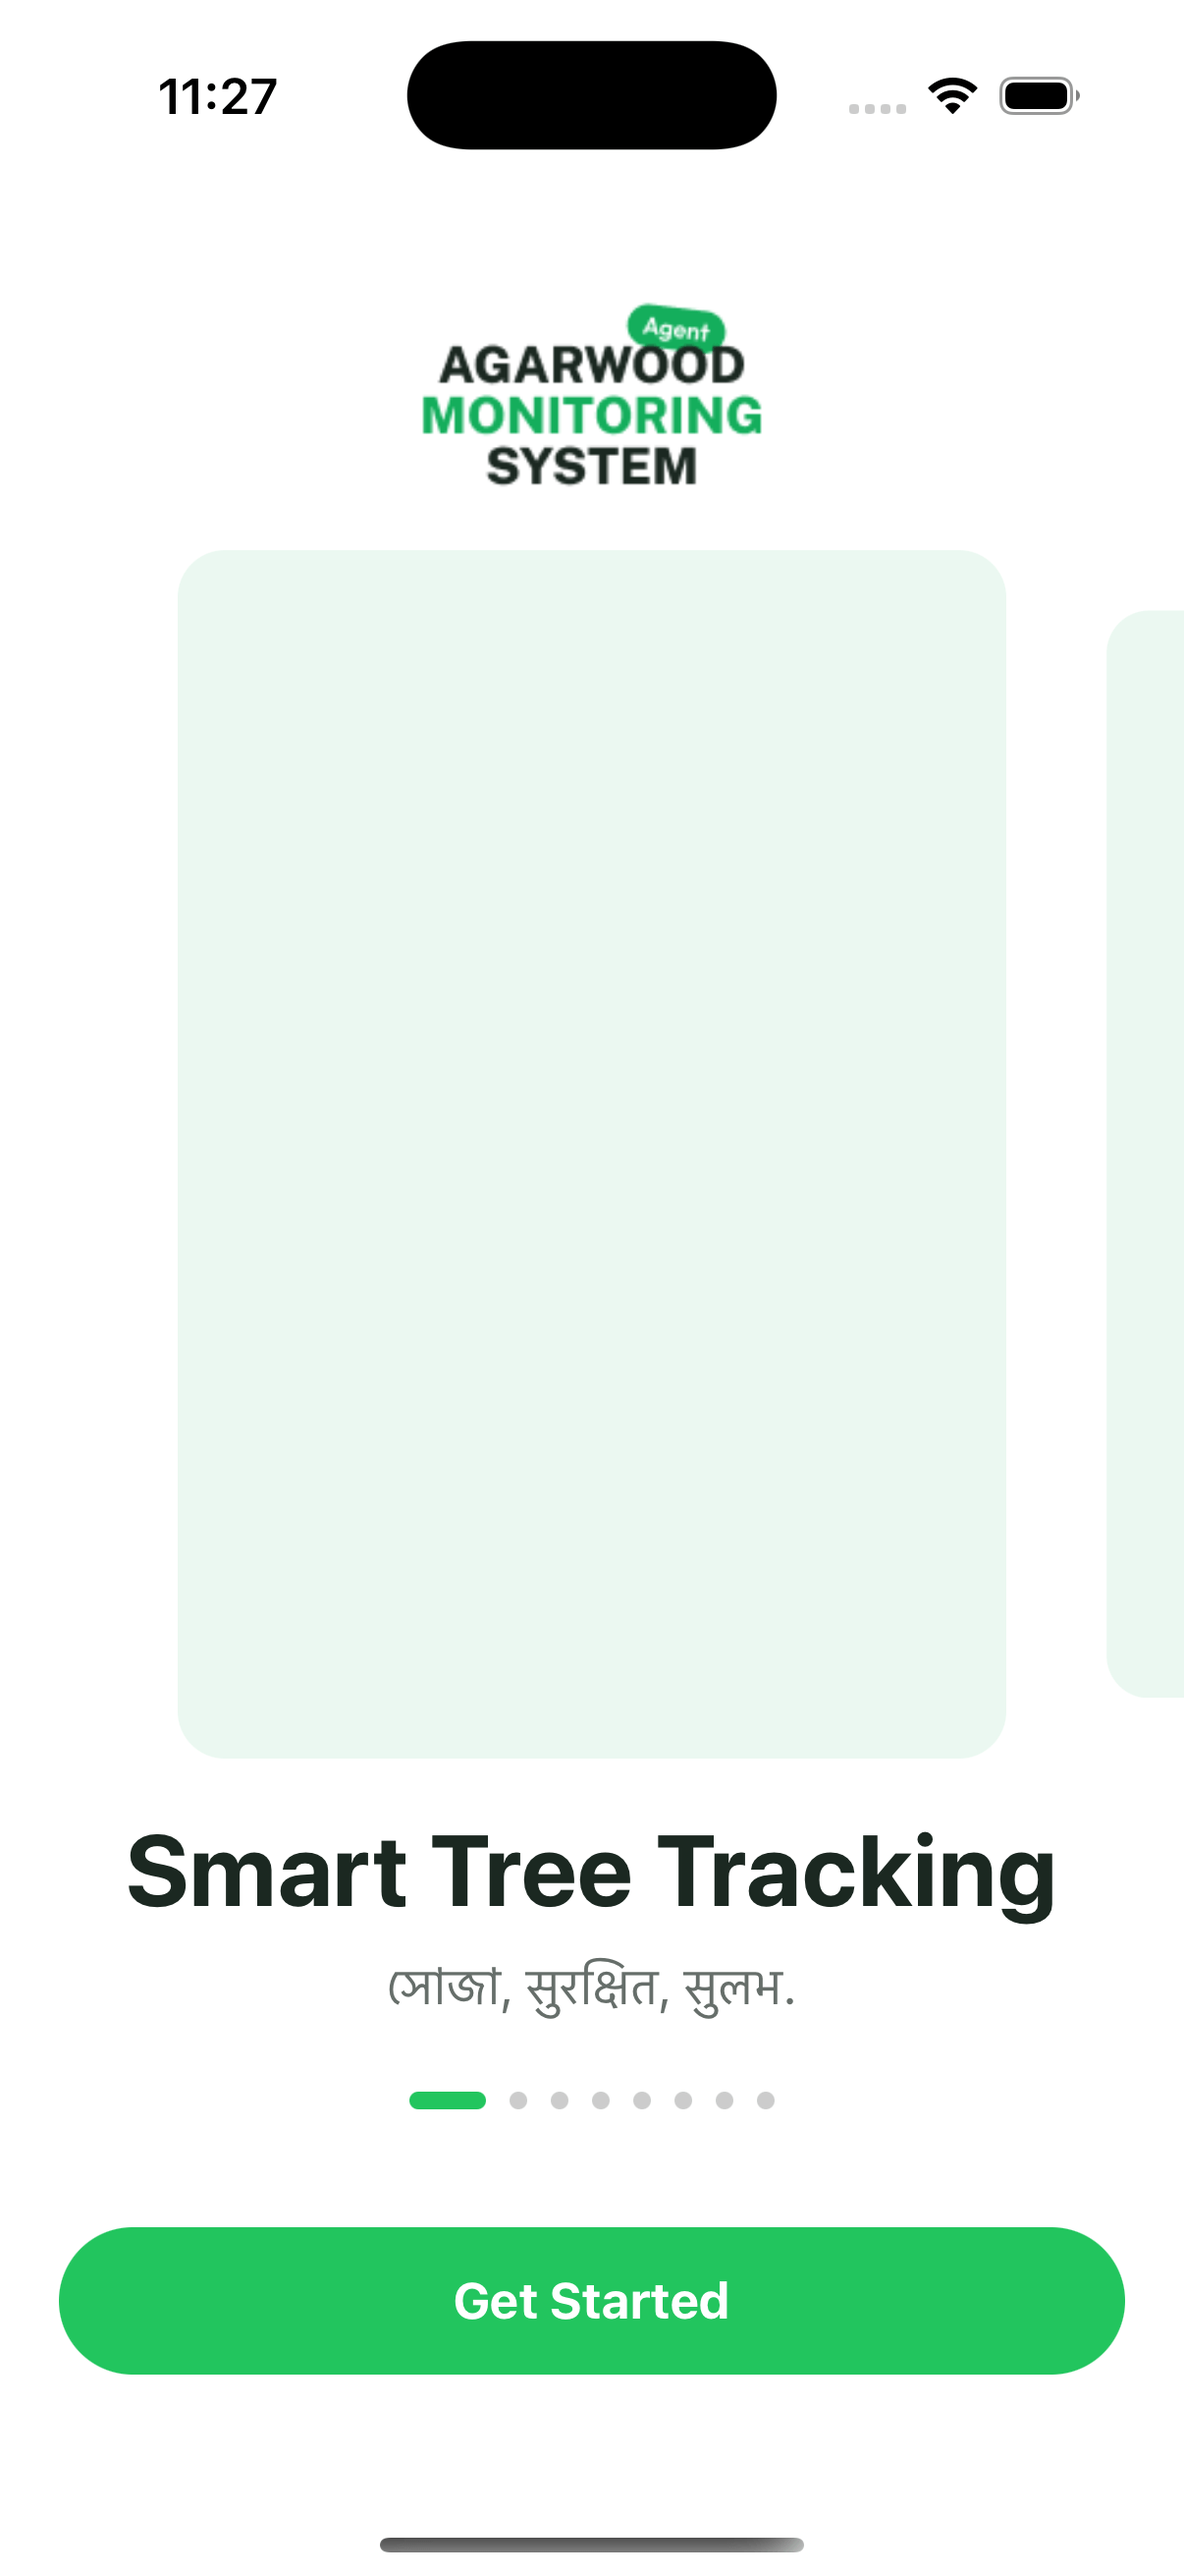
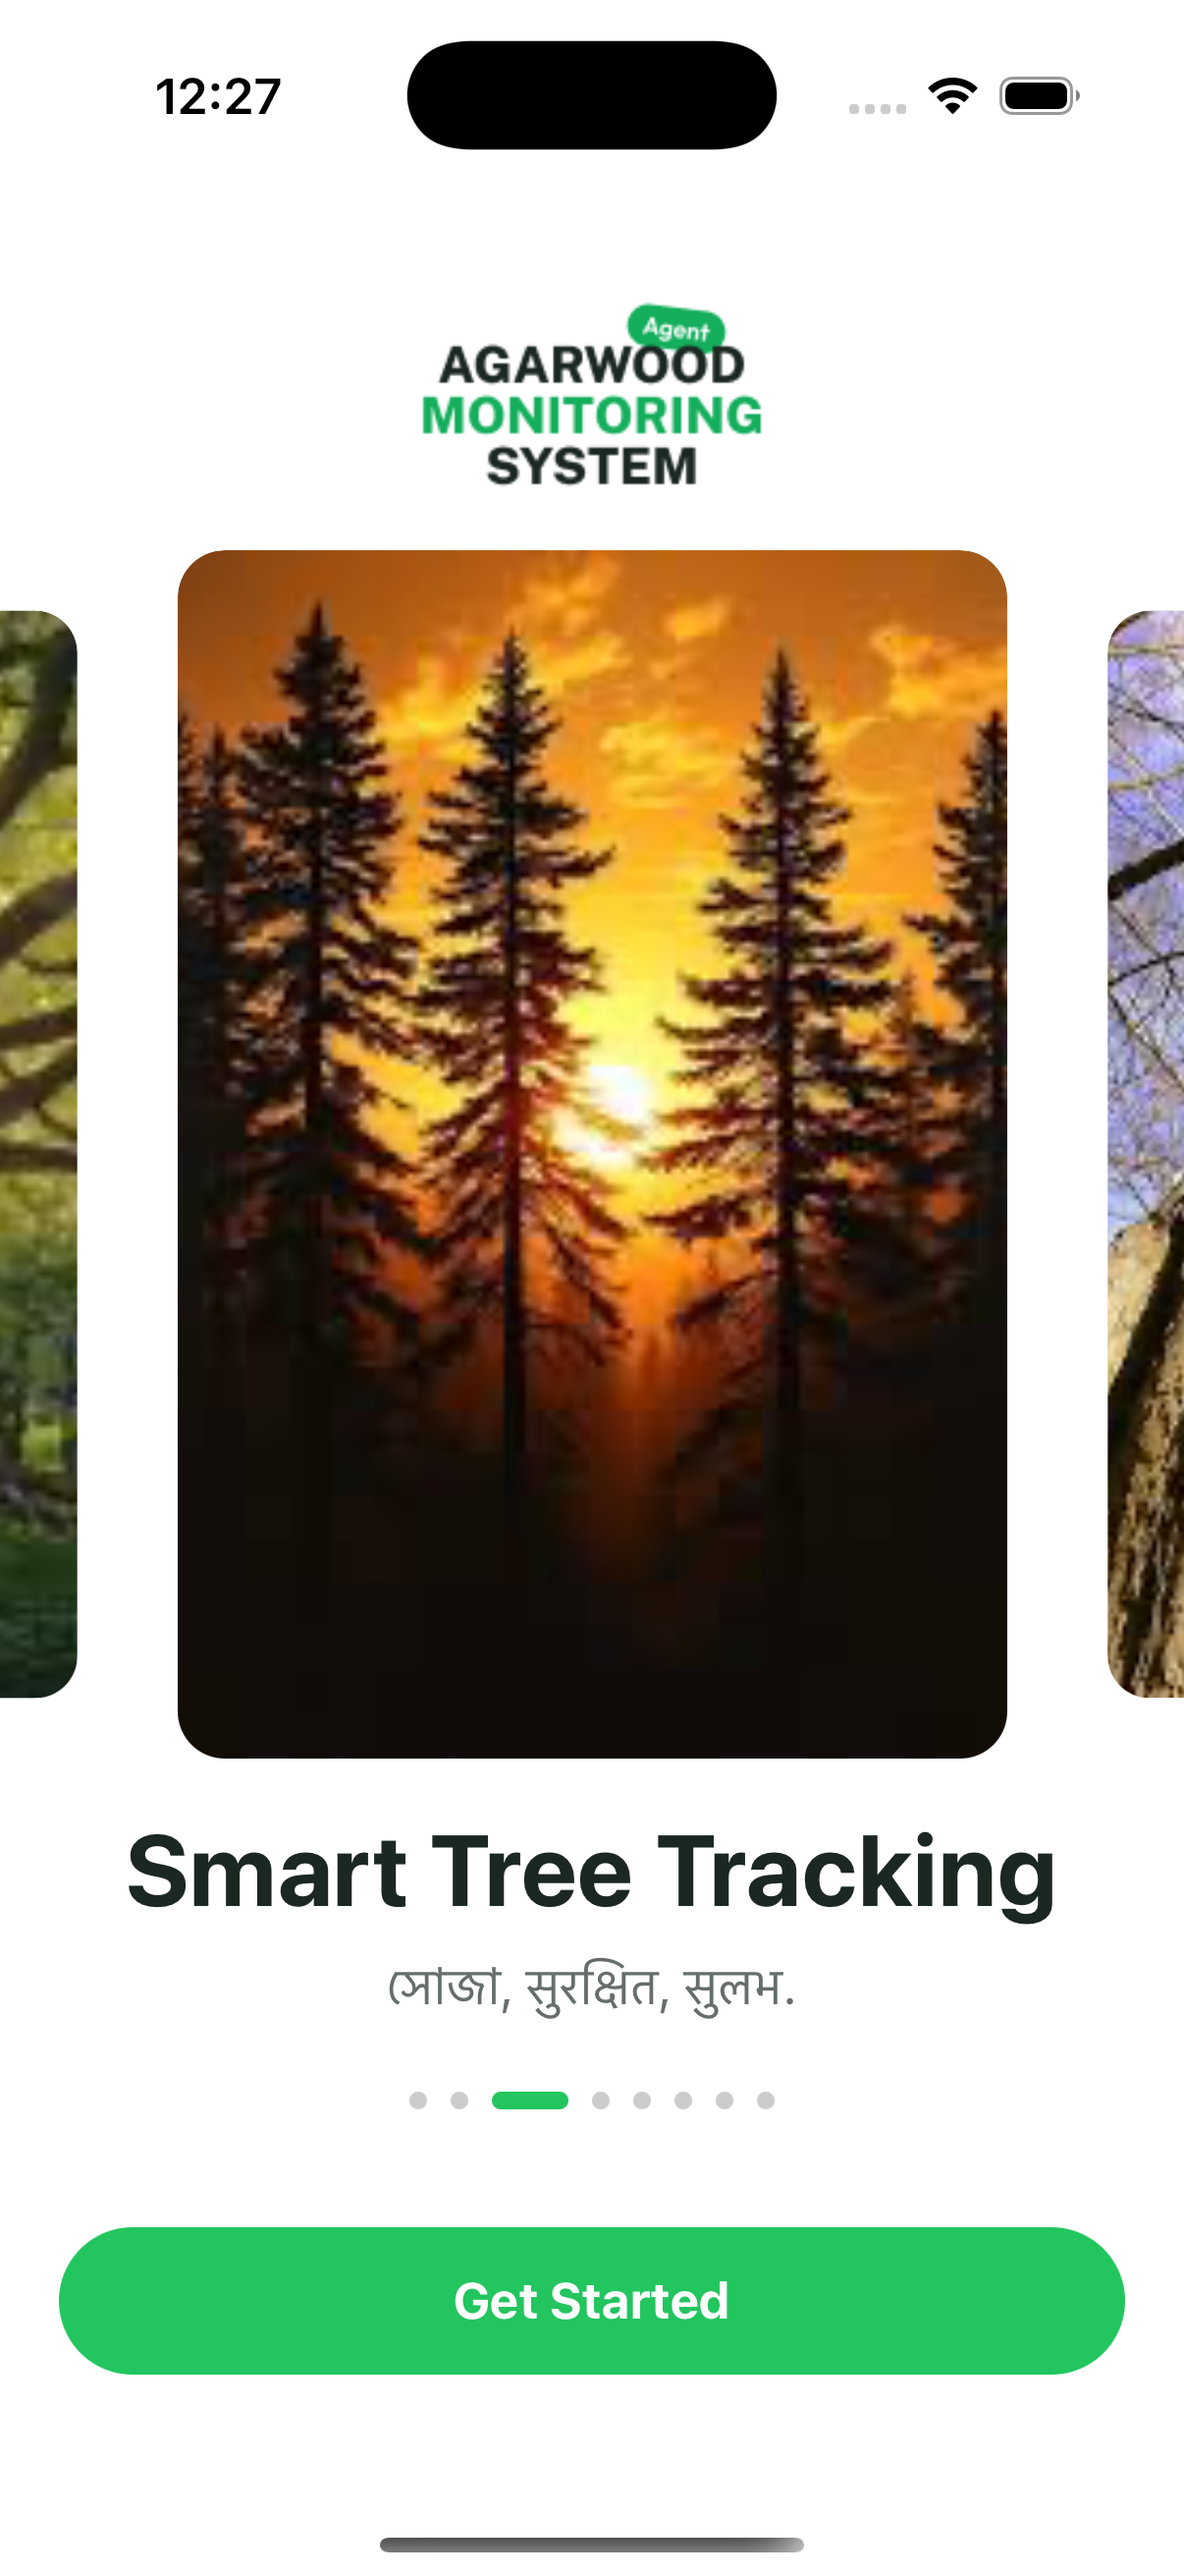
image

diff --git a/src/components/AnimatedCarousel.jsx b/src/components/AnimatedCarousel.jsx
@@ -1,5 +1,23 @@
 import React, { useRef, useState, useEffect } from 'react';
-import { Animated, StyleSheet, Text, View, Dimensions } from 'react-native';
+import {
+  Animated,
+  StyleSheet,
+  Text,
+  View,
+  Dimensions,
+  Image,
+  FlatList,
+} from 'react-native';
+
+// Import your 8 images
+import img1 from '../../Assets/tree1.jpeg';
+import img2 from '../../Assets/tree2.jpeg';
+import img3 from '../../Assets/tree3.jpeg';
+import img4 from '../../Assets/tree4.jpeg';
+import img5 from '../../Assets/tree5.jpeg';
+import img6 from '../../Assets/tree6.jpeg';
+import img7 from '../../Assets/tree7.jpeg';
+import img8 from '../../Assets/tree8.jpeg';
 
 const { width } = Dimensions.get('window');
 const SPACING = 20;
@@ -7,14 +25,14 @@ const ITEM_WIDTH = width * 0.7;
 const ITEM_HEIGHT = 410;
 
 const DATA = [
-  { id: '1', title: '' },
-  { id: '2', title: '' },
-  { id: '3', title: '' },
-  { id: '4', title: '' },
-  { id: '5', title: '' },
-  { id: '6', title: '' },
-  { id: '7', title: '' },
-  { id: '8', title: '' },
+  { id: '1', title: '', image: img1 },
+  { id: '2', title: '', image: img2 },
+  { id: '3', title: '', image: img3 },
+  { id: '4', title: '', image: img4 },
+  { id: '5', title: '', image: img5 },
+  { id: '6', title: '', image: img6 },
+  { id: '7', title: '', image: img7 },
+  { id: '8', title: '', image: img8 },
 ];
 
 const AnimatedCard = ({ item, index, scrollX }) => {
@@ -32,6 +50,9 @@ const AnimatedCard = ({ item, index, scrollX }) => {
 
   return (
     <Animated.View style={[styles.card, { transform: [{ scale }] }]}>
+      <View style={styles.imageContainer}>
+        <Image source={item.image} style={styles.image} resizeMode="cover" />
+      </View>
       <Text style={styles.cardText}>{item.title}</Text>
     </Animated.View>
   );
@@ -107,8 +128,20 @@ const styles = StyleSheet.create({
     height: ITEM_HEIGHT,
     backgroundColor: '#EBF8F1',
     borderRadius: 16,
-    justifyContent: 'center',
+    justifyContent: 'flex-start',
     alignItems: 'center',
+    overflow: 'hidden',
+  },
+  imageContainer: {
+    width: '100%',
+    height: '100%',
+    borderTopLeftRadius: 16,
+    borderTopRightRadius: 16,
+    overflow: 'hidden',
+  },
+  image: {
+    width: '100%',
+    height: '100%',
   },
   cardText: {
     fontWeight: 'bold',
@@ -116,6 +149,7 @@ const styles = StyleSheet.create({
     textAlign: 'center',
     paddingHorizontal: 10,
     color: '#000',
+    paddingTop: 8,
   },
   textContainer: {
     marginTop: 24,
